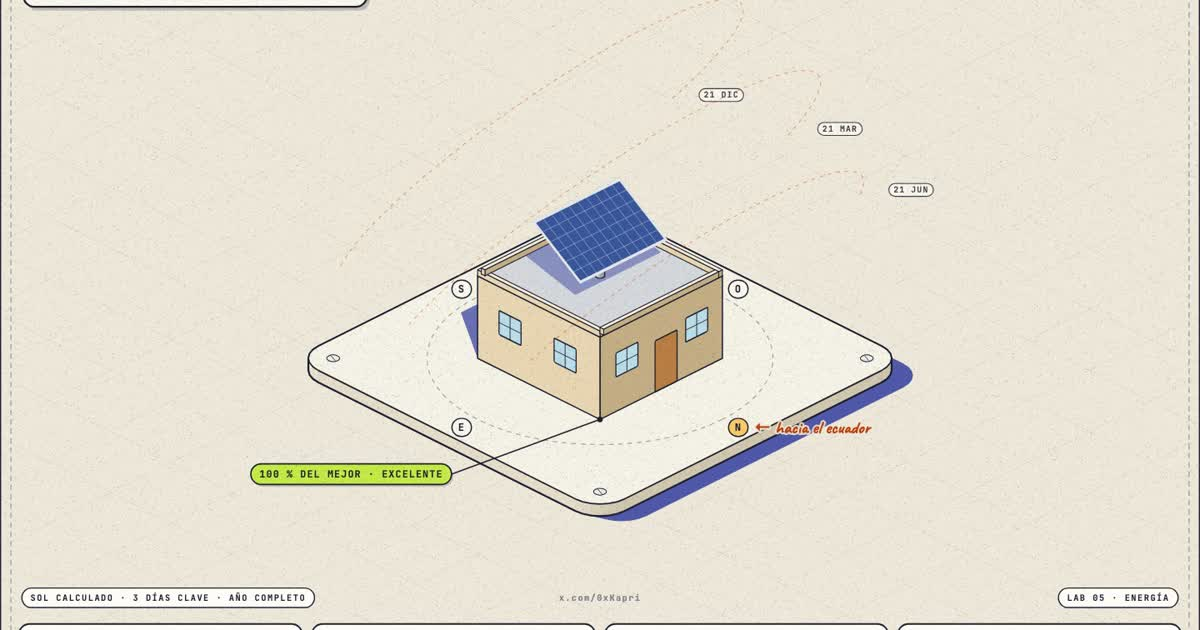
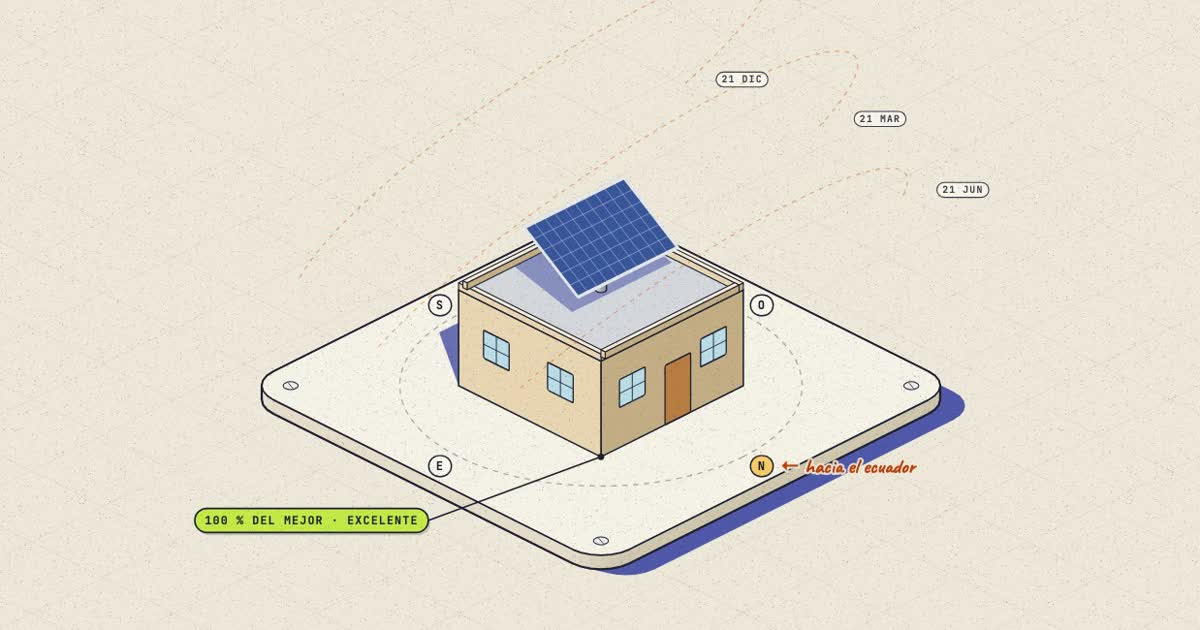
Agrega NOTICE con licencias del kit y fuentes; build conserva dist/ para las herramientas; portada nueva

diff --git a/AGENTS.md b/AGENTS.md
@@ -26,7 +26,9 @@ node check.mjs        # model checks; must all print "ok"
 node simular-csv.mjs  # regenerate simulated data, then ./build.sh
 ```
 
-- `./build.sh` needs the SIMULAB kit at `~/.claude/skills/simulab`, which is not in this repo. The kit's tools are `stills.mjs` (contact sheets), `video.sh` and `jumps.mjs`; run them against the project root (`.`).
+- `./build.sh` needs the SIMULAB kit at `~/.claude/skills/simulab`, which is not in this repo. The kit's tools are `stills.mjs` (contact sheets), `video.sh` and `jumps.mjs`; run them against the project root (`.`). They read `dist/index.html`, so build first; `build.sh` keeps `dist/` for that.
+- Preview the video before the final render: `bash ~/.claude/skills/simulab/tools/video.sh . panel-solar-tandil --preview`. The output goes to `render/`.
+- `NOTICE` carries the MIT licence of the SIMULAB kit and the OFL licences of the bundled fonts. Keep it whenever `index.html` ships.
 - Check UI changes in a real browser with Playwright from the kit's `node_modules`. Load `index.html` and confirm there are no `pageerror` events. Look at screenshots for overlapping text.
 
 ## Model conventions

diff --git a/README.md b/README.md
@@ -59,4 +59,4 @@ Cada push a `main` se publica solo en Vercel. Corre `./build.sh` antes de cada c
 
 La lista completa, con las fuentes, está en `demo.json`.
 
-Motor, assets y herramientas: SIMULAB / KAPRI LAB por @0xKapri (MIT).
+Motor, assets y herramientas: [SIMULAB](https://github.com/ecapri-dev/simulab-skill) / KAPRI LAB por @0xKapri (MIT). Fuentes JetBrains Mono, Caveat y Silkscreen (SIL OFL 1.1). `index.html` las incluye; los textos de las licencias están en [NOTICE](NOTICE).
